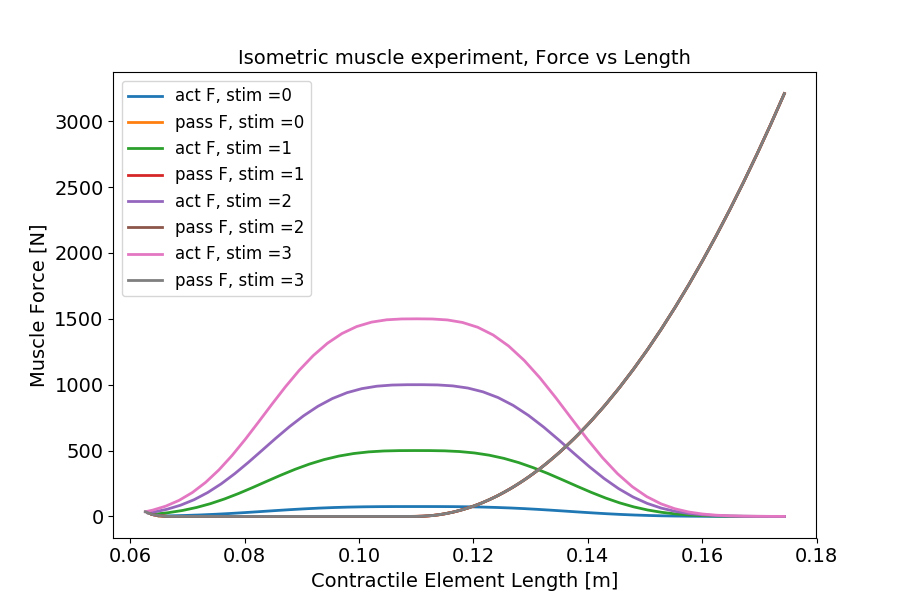
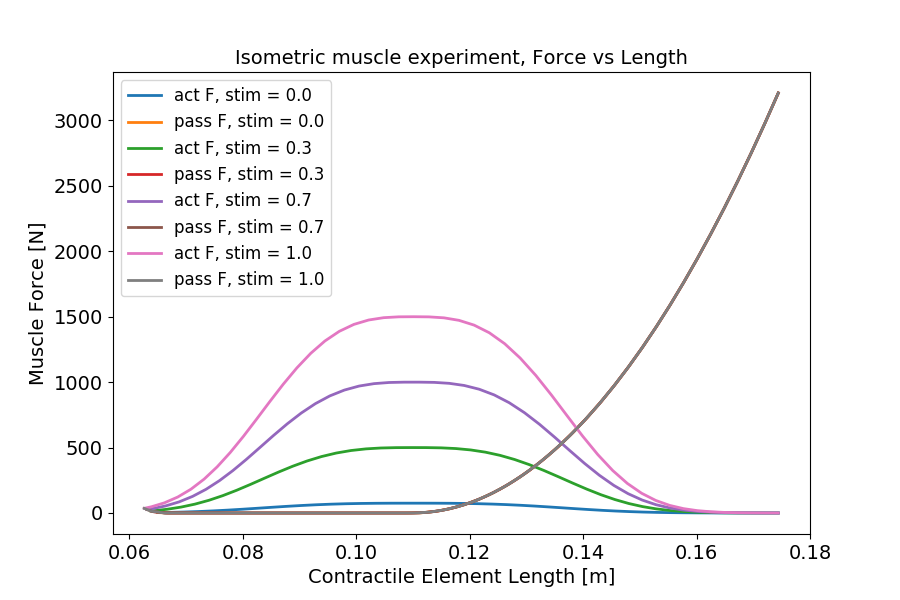
Finished exercise 1c and redid all the figures to have them uniform. Also added a fixed figure size at the beginning

diff --git a/Python/exercise1.py b/Python/exercise1.py
@@ -34,9 +34,11 @@ def exercise1a():
     To do so, you will have to keep the muscle at a constant length and
     observe the force while stimulating the muscle at a constant activation."""
     plt.close('all')
+    plt.rcParams['figure.figsize'] = [9, 6]
     # Defination of muscles
     parameters = MuscleParameters()
-    pylog.warning("Loading default muscle parameters")
+    parameters.l_opt = 0.05 # and 0.5
+    #pylog.warning("Loading default muscle parameters")
     pylog.info(parameters.showParameters())
     pylog.info("Use the parameters object to change the muscle parameters")
 
@@ -59,7 +61,7 @@ def exercise1a():
     muscle_stretch = np.linspace(0.2,1.3,100)
     muscle_stretch = muscle_stretch*(sys.muscle.L_OPT+sys.muscle.L_SLACK)
     # Evalute for a single muscle stimulation
-    muscle_stimulation = np.linspace(0.0,1.0,4)
+    muscle_stimulation = np.linspace(1.0,1.0,1)
 
     # Set the initial condition
     x0 = [0.0, sys.muscle.L_OPT]
@@ -99,8 +101,8 @@ def exercise1a():
 #    plt.grid()
     
         plt.figure('Isometric muscle experiment, Force vs Length')
-        plt.plot(l_ce, active_force, label='act F, stim ='+str(s))
-        plt.plot(l_ce, passive_force, label='pass F, stim ='+str(s))
+        plt.plot(l_ce, active_force, label='act F, stim = %0.1f'%muscle_stimulation[s])
+        plt.plot(l_ce, passive_force, label='pass F, stim = %0.1f' %muscle_stimulation[s])
         plt.title('Isometric muscle experiment, Force vs Length')
         plt.xlabel('Contractile Element Length [m]')
         plt.ylabel('Muscle Force [N]')

diff --git a/Python/isometric_muscle_system.py b/Python/isometric_muscle_system.py
@@ -142,9 +142,9 @@ class IsometricMuscleSystem(object):
             muscle_length = self.muscle.L_OPT + self.muscle.L_SLACK
 
         #: Integration
-        pylog.info(
-            "Begin isometric test with muscle stretch {} and "
-            "muscle activation {}".format(muscle_length, stimulation))
+#        pylog.info(
+#            "Begin isometric test with muscle stretch {} and "
+#            "muscle activation {}".format(muscle_length, stimulation))
         #: Instatiate the muscle results container
         self.muscle.instantiate_result_from_state(time)
 
